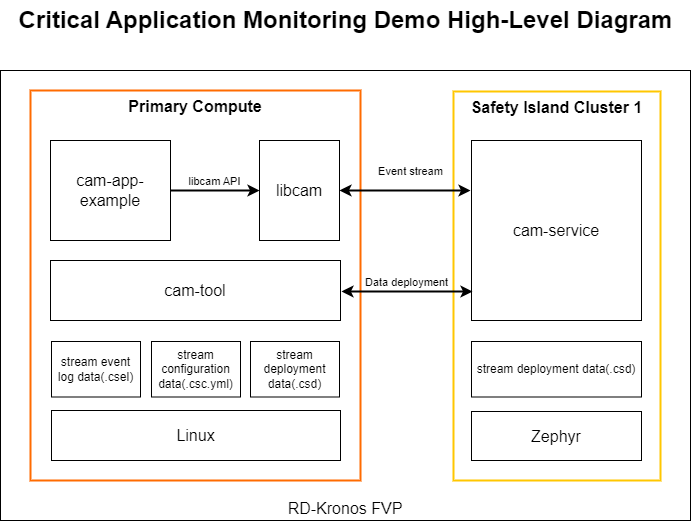
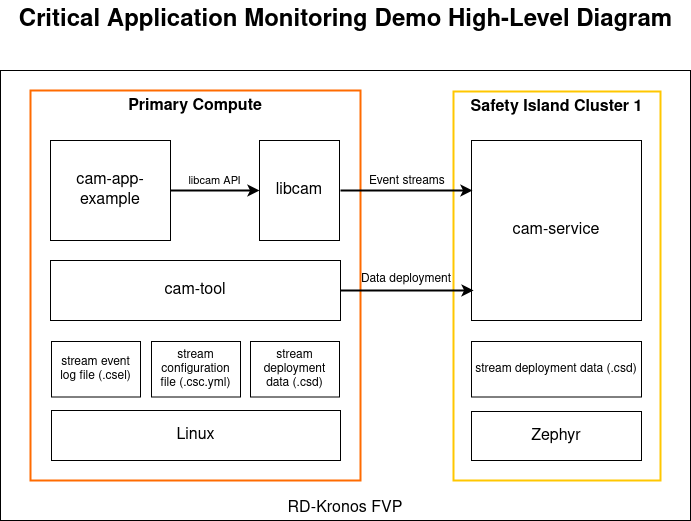
doc: Improve Critical Application Monitoring documentation
Reword CAM Introduction section, also update diagram to clarify the
event stream and deployment flow.

diff --git a/documentation/conf.py b/documentation/conf.py
@@ -250,6 +250,7 @@ rst_prolog = f"""
 .. _Base System Architecture (BSA): https://developer.arm.com/documentation/den0094/latest
 .. _Cassini: https://cassini.readthedocs.io/en/{cassini_version}/
 .. _Critical Application Monitoring repository: https://gitlab.arm.com/automotive-and-industrial/safety-island/critical-app-monitoring/-/tree/{critical_application_monitoring_version}
+.. _Critical Application Monitoring Documentation: https://critical-app-monitoring.docs.arm.com/en/{critical_application_monitoring_version}/
 .. _Crypto Service: https://trusted-services.readthedocs.io/en/{trusted_services_doc_version}/services/crypto-service-description.html
 .. _CycloneDDS: https://cyclonedds.io/docs/cyclonedds/latest/about_dds/eclipse_cyclone_dds.html
 .. _Data Distribution Service: https://www.dds-foundation.org/what-is-dds-3

diff --git a/documentation/design/applications/cam.rst b/documentation/design/applications/cam.rst
@@ -14,13 +14,25 @@ Critical Application Monitoring Demo
 Introduction
 ************
 
-The Critical Application Monitoring (CAM) project implements a solution for
-monitoring applications using a service running on a higher safety level system.
-This approach aims to take advantage of running heavy workloads in high
-performance cores whilst adding an extra layer of safety by monitoring such
-applications via a higher safety subsystem. This project is integrated into the
-Kronos Software Reference Stack to demonstrate the feasibility of monitoring
-Primary Compute applications from the Safety Island.
+Critical applications often follow a pattern where the workloads are split into
+multiple periodic tasks chained together to produce a feature pipeline.
+Detection of application execution faults in such safety-critical systems is one
+of the pillars of a system’s reliability strategy. The Critical Application
+Monitoring (CAM) project implements a solution for monitoring such critical
+applications using a monitoring service that runs on a higher safety level
+system. The main goal of CAM is to ensure that a certain piece of code running
+in critical applications executes periodically at a specific frequency. When
+the execution time is violated, critical applications are deemed as
+malfunctioning. The classes of issues that CAM can detect can be broadly
+classified into:
+
+  * Temporal issues: Events arriving outside the expected frequency.
+  * Logical issues: Events arriving out of order.
+
+The CAM project is integrated into the Kronos Reference Software Stack to
+demonstrate the feasibility of monitoring Primary Compute applications from the
+Safety Island. Refer to `Critical Application Monitoring Documentation`_ for
+more information on CAM project and its implementation details.
 
 *****************************************
 Critical Application Monitoring on Kronos
@@ -40,22 +52,29 @@ The following diagram shows the architecture of the demo:
 
 CAM consists of the following major components:
 
-  * **Cam-app-example**: An example of an application using libcam for remote
-    monitoring.
+  * **Stream configuration file**: Configuration file containing the number of
+    stream events and their timing characteristics according to the requirements
+    of the critical application.
 
-  * **Libcam**: Library used by critical applications to integrate the CAM
-    project. It provides an API that enables applications to produce event
-    streams to ``cam-service``.
+  * **Stream deployment data**: Binary representation of the stream
+    configuration that needs to be deployed to the Safety Island.
 
-  * **Cam-service**: The service responsible for monitoring all the event
-    streams sent by multiple applications. In order to track the events,
-    ``cam-service`` loads the stream data upon stream initialization.
+  * **cam-tool**: A python-based tool used to generate and deploy stream
+    deployment data by analyzing stream configuration file.
 
-  * **Stream data**: The data containing the expected event periods and state
-    control data for each stream. The data must be deployed to ``cam-service``
-    before a stream is initialized.
+  * **cam-service**: CAM monitoring agent that monitors event streams sent by
+    critical applications and runs from higher safety cores in the Safety
+    Island. ``cam-service`` uses the stream deployment data to validate event
+    streams produced by critical applications.
 
-  * **Cam-tool**: The tool used to analyze, generate and deploy stream data.
+  * **libcam**: CAM library that offers a simple, thread-safe API that can be
+    used by critical applications to integrate the CAM project. The API enables
+    the applications to register with ``cam-service`` and generate event streams
+    to be sent to ``cam-service``.
+
+  * **cam-app-example**: An example application that uses ``libcam`` API to
+    integrate CAM framework. It also supports error injection into the stream
+    events to trigger a fault detection by ``cam-service``.
 
 The Primary Compute components are deployed on the baremetal Linux root
 filesystem in the Baremetal Architecture build and on the DomU1 and DomU2 Linux
@@ -70,17 +89,15 @@ following platform requirements:
 
   * Communication between the Safety Island and the Primary Compute for event
     streams.
-
   * Synchronized clocks on the Safety Island and the Primary Compute for
     temporal check.
-
   * Storage and a file system on the Safety Island for stream data deployment.
 
 Communication Interfaces
 ========================
 
-BSD sockets (over TCP) are used in order to send the event message from user
-applications to ``cam-service`` via the :ref:`design_hipc` feature.
+BSD sockets (over TCP) are used in order to send the event message from
+``cam-app-example`` to ``cam-service`` via the :ref:`design_hipc` feature.
 
 Time Synchronization
 ====================
